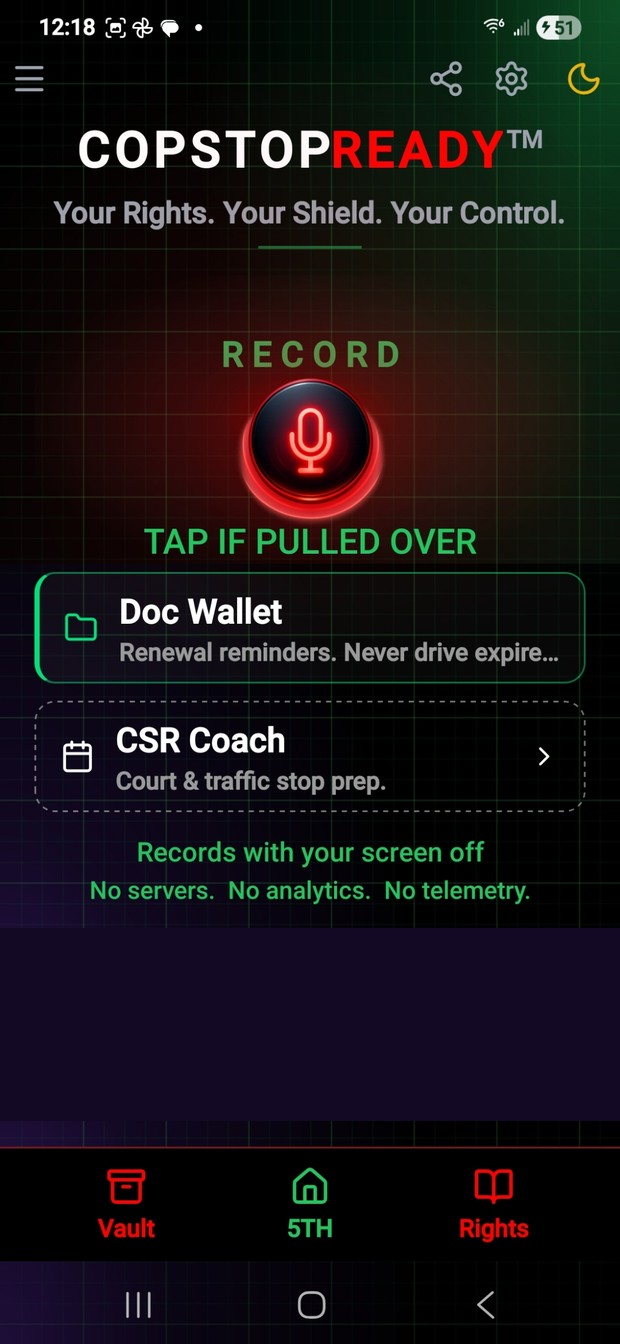
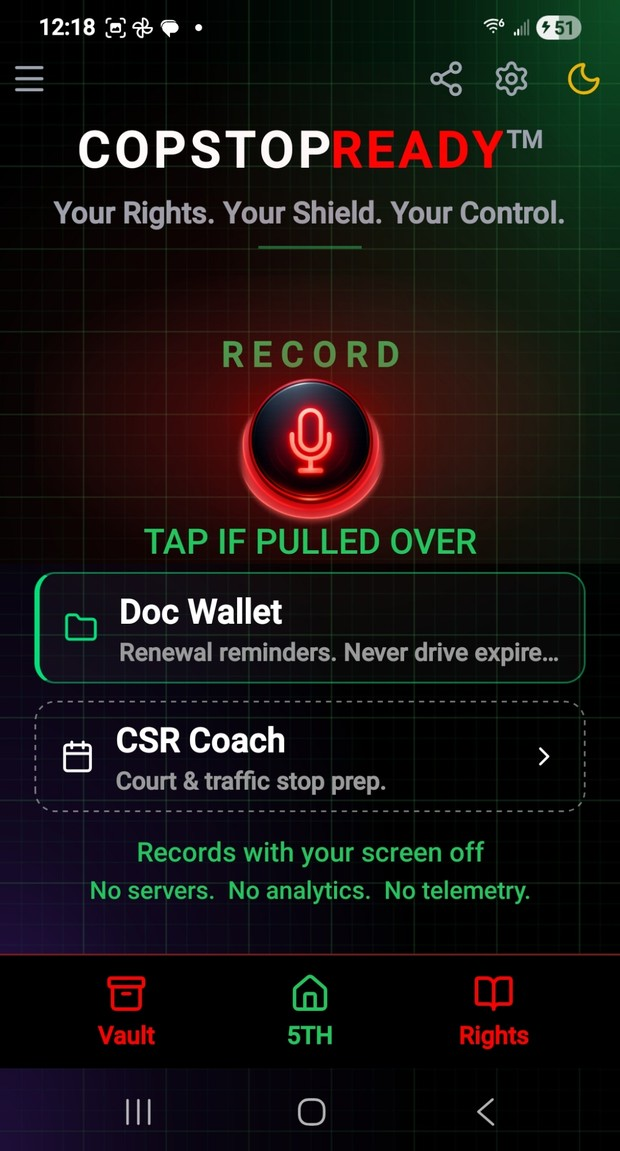
Homepage hero: clean home screen, grid background, correct size

diff --git a/index.html b/index.html
@@ -206,7 +206,7 @@
       </div>
       <div class="phone-stage">
         <div class="glow"></div>
-        <div class="phone"><img src="/img/home.jpg" alt="CopStopReady home screen" width="620" height="1343"></div>
+        <div class="phone"><img src="/img/home.jpg" alt="CopStopReady home screen" width="620" height="1151"></div>
       </div>
     </div>
   </section>
